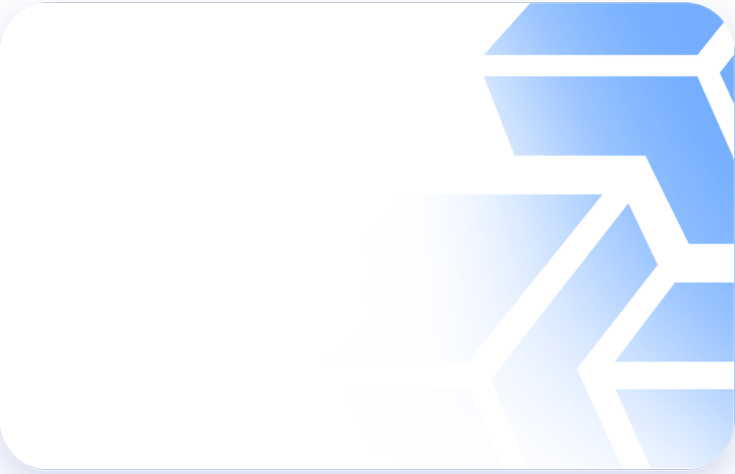
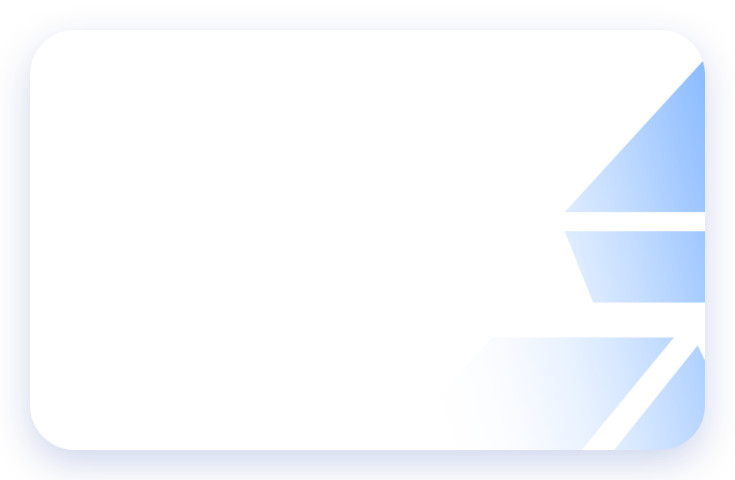
ui

Changed region(s): [[0.0299, 0.0, 1.0, 1.0]]

diff --git a/neworimportwalletwidget.cpp b/neworimportwalletwidget.cpp
@@ -8,8 +8,7 @@ NewOrImportWalletWidget::NewOrImportWalletWidget(QWidget *parent) :
     ui(new Ui::NewOrImportWalletWidget)
 {
     ui->setupUi(this);
-
-    setStyleSheet("NewOrImportWalletWidget{background-image:url(:/ui/wallet_ui/loginBg.png);}");
+    InitWidget();
 
 }
 
@@ -45,13 +44,46 @@ void NewOrImportWalletWidget::on_closeBtn_clicked()
     emit closeWallet();
 }
 
+void NewOrImportWalletWidget::InitWidget()
+{
+    InitStyle();
+}
+
+void NewOrImportWalletWidget::InitStyle()
+{
+    setAutoFillBackground(true);
+    QPalette palette;
+    palette.setBrush(QPalette::Window,  QBrush(QPixmap(":/ui/wallet_ui/background.png").scaled(this->size())));
+    setPalette(palette);
+
+    QFont font("黑体",14,70);
+    ui->label_wel->setFont(font);
+
+    QFont fontb("黑体",21,100);
+    ui->label_bloc->setFont(fontb);
+
+    QPalette pa;
+    pa.setColor(QPalette::WindowText,QColor(0x54,0x74,0xEB));
+    ui->label_wel->setPalette(pa);
+    ui->label_bloc->setPalette(pa);
+    ui->label_version->setPalette(pa);
+
+    ui->newWalletBtn->setStyleSheet("QPushButton{background-color:#5474EB; border:none;border-radius:15px;color: rgb(255, 255, 255);font-family:Microsoft YaHei UI Light;}"
+                                "QPushButton:hover{background-color:#00D2FF;}");
+    ui->importWalletBtn->setStyleSheet("QPushButton{background-color:transparent;border:none;border-radius:15px;color: #5474EB;font-family:Microsoft YaHei UI Light;}"
+                                 "QPushButton:hover{background-color:#00D2FF;color: rgb(255, 255, 255);}");
+
+    ui->closeBtn->setIconSize(QSize(12,12));
+    ui->closeBtn->setIcon(QIcon(":/ui/wallet_ui/close.png"));
+
+    ui->closeBtn->setStyleSheet("QToolButton{background-color:transparent;border:none;}"
+                                "QToolButton:hover{background-color:rgb(208,228,255);}");
+}
+
 void NewOrImportWalletWidget::paintEvent(QPaintEvent *e)
 {
-    QStyleOption opt;
-
-    opt.init(this);
-    QPainter p(this);
-    style()->drawPrimitive(QStyle::PE_Widget, &opt, &p, this);
+    QPainter painter(this);
+    painter.drawPixmap(235,130,490,320,QPixmap(":/ui/wallet_ui/login.png").scaled(490,320));
 
     QWidget::paintEvent(e);
 }

diff --git a/normallogin.cpp b/normallogin.cpp
@@ -152,6 +152,12 @@ void NormalLogin::InitStyle()
     palette.setBrush(QPalette::Window,  QBrush(QPixmap(":/ui/wallet_ui/background.png").scaled(this->size())));
     setPalette(palette);
 
+    QFont font("黑体",14,70);
+    ui->label_wel->setFont(font);
+
+    QFont fontb("黑体",21,100);
+    ui->label_bloc->setFont(fontb);
+
     QPalette pa;
     pa.setColor(QPalette::WindowText,QColor(0x54,0x74,0xEB));
     ui->label_wel->setPalette(pa);
@@ -160,8 +166,12 @@ void NormalLogin::InitStyle()
 
     ui->pwdLineEdit->setStyleSheet("color:blue;background:transparent;border-width:0;border-style:outset;lineedit-password-mask-delay: 1000;");
 
-    ui->closeBtn->setStyleSheet("QToolButton{background-image:url(:/ui/wallet_ui/closeBtn.png);background-repeat: repeat-xy;background-position: center;background-attachment: fixed;background-clip: padding;border-style: flat;}"
-                                "QToolButton:hover{background-image:url(:/ui/wallet_ui/closeBtn_hover.png);}");
+    ui->closeBtn->setIconSize(QSize(12,12));
+    ui->closeBtn->setIcon(QIcon(":/ui/wallet_ui/close.png"));
+
+    ui->closeBtn->setStyleSheet("QToolButton{background-color:transparent;border:none;}"
+                                "QToolButton:hover{background-color:rgb(208,228,255);}");
+
     ui->enterBtn->setStyleSheet("QToolButton{background-color:#5474EB; border:none;border-radius:15px;color: rgb(255, 255, 255);}"
                                 "QToolButton:hover{background-color:#00D2FF;}");
     ui->forgetBtn->setStyleSheet("QToolButton{background-color:transparent;border:none;border-radius:15px;color: #C6CAD4;}"
@@ -193,7 +203,7 @@ void NormalLogin::keyPressEvent(QKeyEvent *e)
 void NormalLogin::paintEvent(QPaintEvent *e)
 {
     QPainter painter(this);
-    painter.drawPixmap(255,150,450,280,QPixmap(":/ui/wallet_ui/login.png").scaled(450,280));
+    painter.drawPixmap(238,130,490,320,QPixmap(":/ui/wallet_ui/login.png").scaled(490,320));
 
     QWidget::paintEvent(e);
 }

diff --git a/lockpage.cpp b/lockpage.cpp
@@ -161,6 +161,12 @@ void LockPage::InitStyle()
     palette.setBrush(QPalette::Window,  QBrush(QPixmap(":/ui/wallet_ui/background.png").scaled(this->size())));
     setPalette(palette);
 
+    QFont font("黑体",14,70);
+    ui->label_wel->setFont(font);
+
+    QFont fontb("黑体",21,100);
+    ui->label_bloc->setFont(fontb);
+
     QPalette pa;
     pa.setColor(QPalette::WindowText,QColor(0x54,0x74,0xEB));
     ui->label_wel->setPalette(pa);
@@ -169,8 +175,10 @@ void LockPage::InitStyle()
 
     ui->pwdLineEdit->setStyleSheet("color:blue;background:transparent;border-width:0;border-style:outset;lineedit-password-mask-delay: 1000;");
 
-    ui->closeBtn->setStyleSheet("QToolButton{background-image:url(:/ui/wallet_ui/closeBtn.png);background-repeat: repeat-xy;background-position: center;background-attachment: fixed;background-clip: padding;border-style: flat;}"
-                                "QToolButton:hover{background-image:url(:/ui/wallet_ui/closeBtn_hover.png);}");
+    ui->closeBtn->setIconSize(QSize(12,12));
+    ui->closeBtn->setIcon(QIcon(":/ui/wallet_ui/close.png"));
+    ui->closeBtn->setStyleSheet("QToolButton{background-color:transparent;border:none;}"
+                                "QToolButton:hover{background-color:rgb(208,228,255);}");
     ui->enterBtn->setStyleSheet("QToolButton{background-color:#5474EB; border:none;border-radius:15px;color: rgb(255, 255, 255);}"
                                 "QToolButton:hover{background-color:#00D2FF;}");
     ui->forgetBtn->setStyleSheet("QToolButton{background-color:transparent;border:none;border-radius:15px;color: #C6CAD4;}"
@@ -200,7 +208,7 @@ void LockPage::keyPressEvent(QKeyEvent *e)
 void LockPage::paintEvent(QPaintEvent *e)
 {
     QPainter painter(this);
-    painter.drawPixmap(255,150,450,280,QPixmap(":/ui/wallet_ui/login.png").scaled(450,280));
+    painter.drawPixmap(238,130,490,320,QPixmap(":/ui/wallet_ui/login.png").scaled(490,320));
 
     QWidget::paintEvent(e);
 }

diff --git a/neworimportwalletwidget.h b/neworimportwalletwidget.h
@@ -25,7 +25,9 @@ private slots:
     void on_importWalletBtn_clicked();
 
     void on_closeBtn_clicked();
-
+private:
+    void InitWidget();
+    void InitStyle();
 private:
     Ui::NewOrImportWalletWidget *ui;
 
